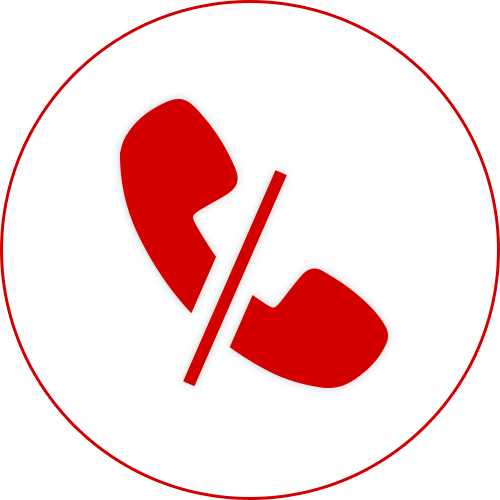
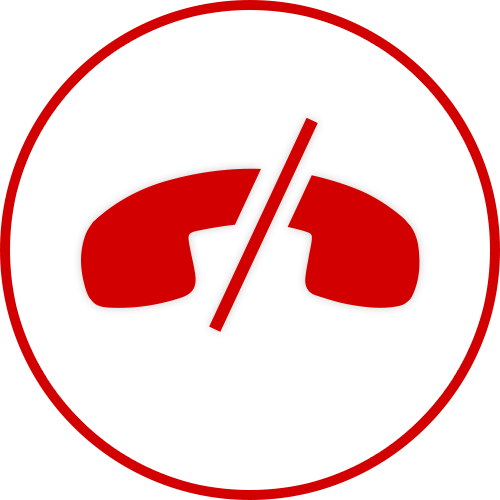
[A]Added disable video view when disconnect

diff --git a/src/main.js b/src/main.js
@@ -27,13 +27,15 @@ const getImage = (state) => {
     }
 }
 
+const videoView = (remoteURL) => {
+    return (remoteURL) ? <RTCView streamURL={remoteURL} style={styles.peerView} /> : <View style={styles.peerView}/>
+}
+
 export default class main extends Component {
 
     state = {
         videoURL: null,
         remoteURL: null,
-        selfViewSrc: null,
-        peerViewSrc: null,
         webrtcHandler: new WebRTCHandler(this._setupSelfUrl.bind(this)),
         callStatus: 'none',//calling, none, waiting,
         uuid: null
@@ -41,7 +43,6 @@ export default class main extends Component {
 
     _setupSelfUrl(streamUrl) {
         console.log(`Setup Done`)
-        this.setState({ selfViewSrc: streamUrl })
     }
 
     constructor(props) {
@@ -118,11 +119,6 @@ export default class main extends Component {
 
     componentDidMount() {
         container = this
-
-        if (Platform.OS === 'ios')
-            return
-
-        this.setState({ selfViewSrc: this.state.webrtcHandler.localStream })
     }
 
     _onPress() {
@@ -138,8 +134,10 @@ export default class main extends Component {
                 break;
 
             case 'calling':
-                this.setState({ callStatus: 'none' })
-                this.state.webrtcHandler.disconnect()
+                this.setState({ callStatus: 'waiting'})
+                this.state.webrtcHandler.disconnect( () => {
+                    this.setState({ callStatus: 'none', remoteURL: null})
+                })
                 RNCallKit.endCall(this.state.uuid)
 
                 break;
@@ -159,8 +157,7 @@ export default class main extends Component {
                 <View style={styles.container}>
                     <Toolbar />
                     <Image source={require('./background.png')} style={styles.backgroundImage} />
-                    <RTCView streamURL={this.state.remoteURL} style={styles.peerView} />
-
+                    {videoView(this.state.remoteURL)}
                     <View style={styles.controller}>
                         <TouchableOpacity onPress={this._onPress.bind(this)}>
                             <Image style={styles.button} source={getImage(this.state.callStatus)} />

diff --git a/src/WebRTCHandler.js b/src/WebRTCHandler.js
@@ -70,6 +70,7 @@ export default class WebRTCHandler {
         console.log('leave', socketId);
         const pc = this._pcPeers[socketId];
         if(pc){
+            console.log(`close pc`)
             pc.close();
             delete this._pcPeers[socketId];
         }
@@ -103,7 +104,9 @@ export default class WebRTCHandler {
     }
 
     _peerOnIceConnectionStateChange(event){
-        console.log('oniceconnectionstatechange', event.target.iceConnectionState)
+        if(event.target.iceConnectionState === 'closed'){
+            this._callback.onDisconnected()
+        }
     }
 
     _peerOnSignalingStatechange(event){
@@ -121,7 +124,6 @@ export default class WebRTCHandler {
 
     _peerOnRemoveStream(event){
         console.log('onremovestream', event.stream);
-        this._callback.onDisconnected(event.stream.toURL())
     }
 
 
@@ -169,7 +171,8 @@ export default class WebRTCHandler {
         })
     }
 
-    disconnect(){
+    disconnect(onDisconnected){
+        this._callback.onDisconnected = onDisconnected
         for( socketId in this._pcPeers){
             this._socketOnLeave(socketId)
         }
